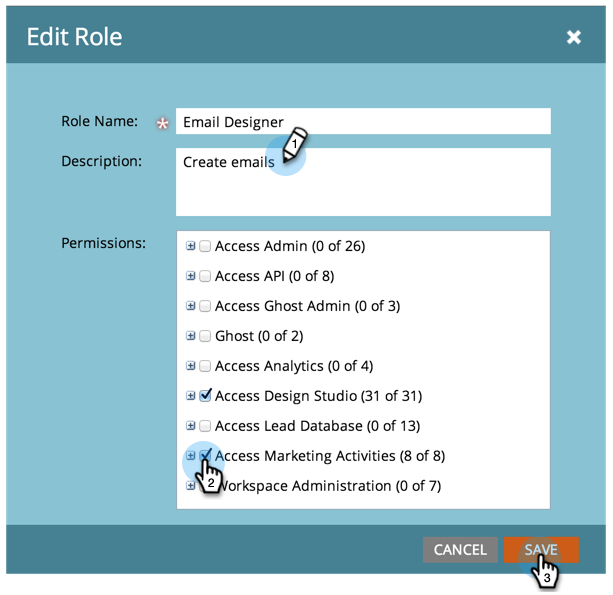
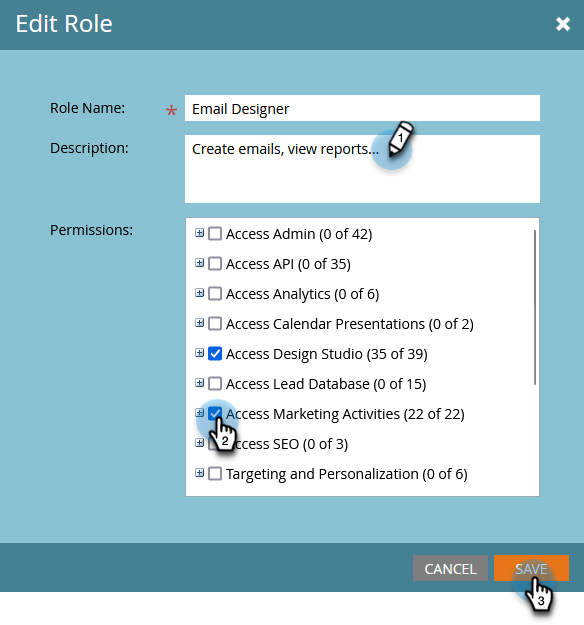
several updates

diff --git a/help/marketo/product-docs/core-marketo-concepts/smart-lists-and-static-lists/static-lists/send-a-list-to-adobe-experience-cloud.md b/help/marketo/product-docs/core-marketo-concepts/smart-lists-and-static-lists/static-lists/send-a-list-to-adobe-experience-cloud.md
@@ -88,28 +88,30 @@ You can stop your list from syncing at any time.
 
 **Sharing to Adobe Analytics**
 
-For customers that own both Adobe Audience Manager and Adobe Analytics, this integration will enable audiences to be shared from Marketo to your Adobe Analytics Report Suites, however there are some additional configurations steps that need to be taken in Adobe Audience Manager to enable this. Please review [Adobe Audience Manager's documentation](https://experienceleague.adobe.com/docs/analytics/integration/audience-analytics/mc-audiences-aam.html){target="_blank"} for more information on how to set this up.
+* For customers that own both Adobe Audience Manager and Adobe Analytics, this integration will enable audiences to be shared from Marketo to your Adobe Analytics Report Suites, however there are some additional configurations steps that need to be taken in Adobe Audience Manager to enable this. Please review [Adobe Audience Manager's documentation](https://experienceleague.adobe.com/docs/analytics/integration/audience-analytics/mc-audiences-aam.html){target="_blank"} for more information on how to set this up.
+
+* If a list is empty, or has no people with ECID values, the list name will not be pushed to be referenced outside of Marketo Engage.
 
 **Trait Usage for Adobe Audience Manager Customers**
 
 When you initiate a list export in Marketo, you'll notice the following changes reflected in your Adobe Audience Manager instance:
 
-* For all of the Leads in the exported List, Marketo will write a trait using the Leads' hashed emails as a Cross-Device Identifier. The name of the trait will match the Destination Audience Name that you specified during the export.
-* For all of the ECIDs that Marketo has managed to match to the Leads in the exported List, Marketo will write a trait using the ECID Device Identifier. The name of the trait will match the Destination Audience Name that you specified during the export.
+* For all of the People in the exported List, Marketo will write a trait using their hashed emails as a Cross-Device Identifier. The name of the trait will match the Destination Audience Name that you specified during the export.
+* For all of the ECIDs that Marketo has managed to match to the People in the exported List, Marketo will write a trait using the ECID Device Identifier. The name of the trait will match the Destination Audience Name that you specified during the export.
 * Marketo will also create a segment in your Audience Manager Instance using the ECID trait as the sole segmentation criterion. The name of the segment will match the Destination Audience Name that you specified during the export.
 
 ## FAQ {#faq}
 
 **Why is the list size in Marketo different than the one in Adobe?**
 
-Under the hood, the audience integration works by syncing Marketo Munchkin cookies with the corresponding Adobe ECID cookie. Marketo can only share membership data for leads that Marketo has synced an ECID for. For the best possible results, it's recommended that you load Marketo's munchkin.js tracking script in parallel with Adobe's visitor.js tracking code on all of the pages you're interested in tracking for marketing purposes.
+Under the hood, the audience integration works by syncing Marketo Munchkin cookies with the corresponding Adobe ECID cookie. Marketo can only share membership data for people that Marketo has synced an ECID for. For the best possible results, it's recommended that you load Marketo's munchkin.js tracking script in parallel with Adobe's visitor.js tracking code on all of the pages you're interested in tracking for marketing purposes.
 
 **How does the cookie sync work?**
 
 When the cookie sync is enabled for your Marketo Subscription, Marketo's munchkin.js will attempt to capture and store Adobe ECIDs for the Adobe IMS Org you specified during the integration setup and match these ECIDs to the corresponding Marketo cookie identifier. This enables Marketo's anonymous user profiles to become enriched with Adobe ECIDs.
 
-A further step is required to associate the anonymous user profile to a Lead Profile, which is identified using a plain text email. Exactly how this works is [described here](/help/marketo/product-docs/reporting/basic-reporting/report-activity/tracking-anonymous-activity-and-people.md){target="_blank"}.
+A further step is required to associate the anonymous user profile to a Person Profile, which is identified using a plain text email. Exactly how this works is [described here](/help/marketo/product-docs/reporting/basic-reporting/report-activity/tracking-anonymous-activity-and-people.md){target="_blank"}.
 
 **What information is shared?**
 
-This integration only shares list membership information from Marketo to Adobe (e.g., the knowledge that Lead X is a member of List Y). No additional Lead Attributes are shared to Adobe via this integration.
+This integration only shares list membership information from Marketo to Adobe (e.g., the knowledge that Person X is a member of List Y). No additional Person Attributes are shared to Adobe via this integration.

diff --git a/help/marketo/product-docs/demand-generation/events/create-an-event/create-an-event-with-zoom.md b/help/marketo/product-docs/demand-generation/events/create-an-event/create-an-event-with-zoom.md
@@ -11,13 +11,13 @@ feature: Events
 >
 >* [Add Zoom as a LaunchPoint Service](/help/marketo/product-docs/administration/additional-integrations/add-zoom-as-a-launchpoint-service.md)
 >* [Create a New Event Program](/help/marketo/product-docs/demand-generation/events/understanding-events/create-a-new-event-program.md)
->* Set the appropriate [flow actions](/help/marketo/product-docs/core-marketo-concepts/smart-campaigns/flow-actions/add-a-flow-step-to-a-smart-campaign.md)to track engagement
+>* Set the appropriate [flow actions](/help/marketo/product-docs/core-marketo-concepts/smart-campaigns/flow-actions/add-a-flow-step-to-a-smart-campaign.md) to track engagement
 
 First create your webinar in Zoom. Certain settings in the creation of your Zoom are used by Marketo, and some are only used by Zoom.
 
 After you create a Marketo event and associate a Zoom webinar with it, the systems will be able to share registration and attendance information. For help creating a webinar, see  [Getting Started with Zoom Webinars](https://support.zoom.us/hc/en-us/articles/200917029-Getting-Started-With-Webinar).
 
-Enter the following information for your webinar and it will be pulled into Marketo via the adapter. If you make any changes to this information, you must click the link “Refresh from Webinar Provider” under Event Actions, in order for Marketo to see the changes.
+Enter the following information for your webinar and it will be pulled into Marketo via the adapter. If you make any changes to this information, you must click the link "Refresh from Webinar Provider" under Event Actions, in order for Marketo to see the changes.
 
 **Title and Description**
 
@@ -97,4 +97,4 @@ Now, let's jump into Marketo!
 
    >[!TIP]
    >
-   >It can take up to 48 hours for the data to appear in Marketo. If after waiting that long you still don't see anything, select **Refresh from Webinar Provider** from the Event Actions menu in the **Summary** tab of your event.
+   >It can take up to 48 hours for the data to appear in Marketo. If after waiting that long you still don't see anything, select **Refresh from Webinar Provider** from the Event Actions menu in the **Summary** tab of your event, then click the refresh icon on the bottom right of the screen.

diff --git a/help/marketo/product-docs/crm-sync/salesforce-sync/setup/enterprise-unlimited-edition/step-2-of-3-create-a-salesforce-user-for-marketo-enterprise-unlimited.md b/help/marketo/product-docs/crm-sync/salesforce-sync/setup/enterprise-unlimited-edition/step-2-of-3-create-a-salesforce-user-for-marketo-enterprise-unlimited.md
@@ -118,20 +118,20 @@ In this article, you will set up user permissions in Salesforce profile, and cre
 <table> 
  <tbody> 
   <tr> 
-   <th colspan="1" rowspan="1"><p>Object</p></th> 
-   <th colspan="1" rowspan="1"><p>Fields</p></th> 
+   <th>Object</th> 
+   <th>Fields</th> 
   </tr> 
   <tr> 
-   <td colspan="1" rowspan="1"><p>Account</p></td> 
-   <td colspan="1" rowspan="1"><p>Type field</p></td> 
+   <td>Account</td> 
+   <td>Type field</td> 
   </tr> 
   <tr> 
-   <td colspan="1" rowspan="1"><p>Event</p></td> 
-   <td colspan="1" rowspan="1"><p>All fields</p></td> 
+   <td>Event</td> 
+   <td>All fields</td> 
   </tr> 
   <tr> 
-   <td colspan="1" rowspan="1"><p>Task</p></td> 
-   <td colspan="1" rowspan="1"><p>All fields</p></td> 
+   <td>Task</td> 
+   <td>All fields</td> 
   </tr> 
  </tbody> 
 </table>

diff --git a/help/marketo/product-docs/administration/users-and-roles/managing-user-roles-and-permissions.md b/help/marketo/product-docs/administration/users-and-roles/managing-user-roles-and-permissions.md
@@ -97,7 +97,7 @@ If you need to change the permissions that are associated with an existing role,
 
    ![](assets/managing-user-roles-and-permissions-13.png)
 
-1. Change the **[!UICONTROL Role Name]** and **[!UICONTROL Description]** if necessary, and then change the selection of associated **[!UICONTROL Permissions]**.
+1. Change the **[!UICONTROL Role Name]** and **[!UICONTROL Description]** if necessary, change the selection of associated **[!UICONTROL Permissions]**, and click **[!UICONTROL Save]** when done.
 
    ![](assets/managing-user-roles-and-permissions-14.png)
 
